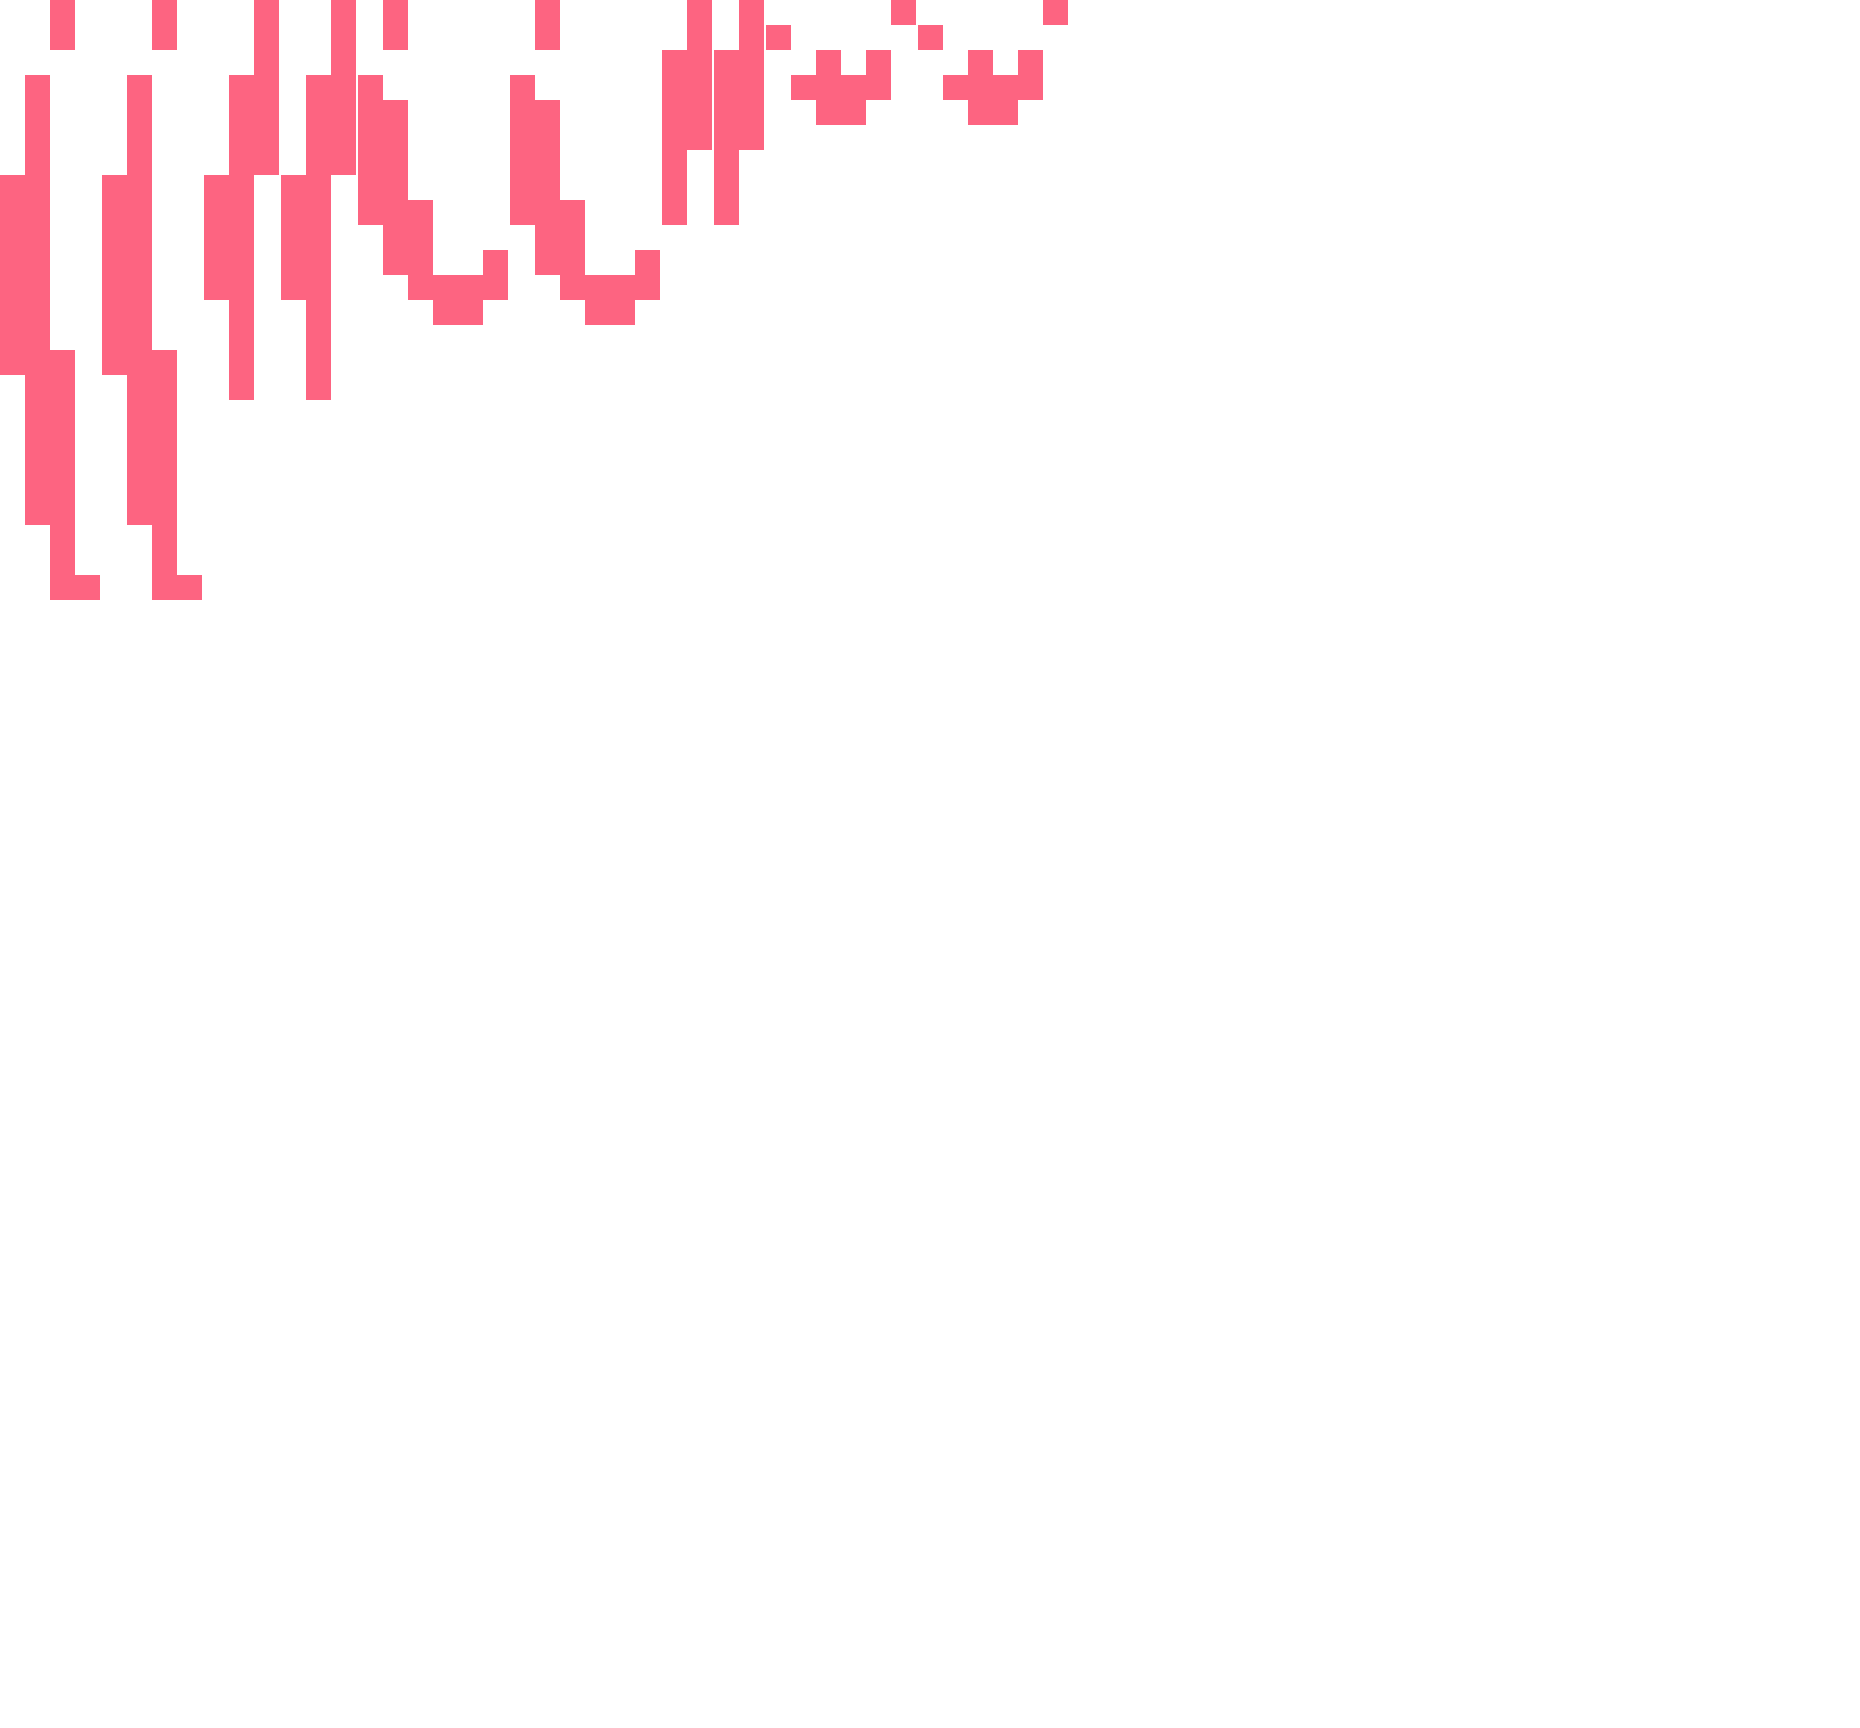
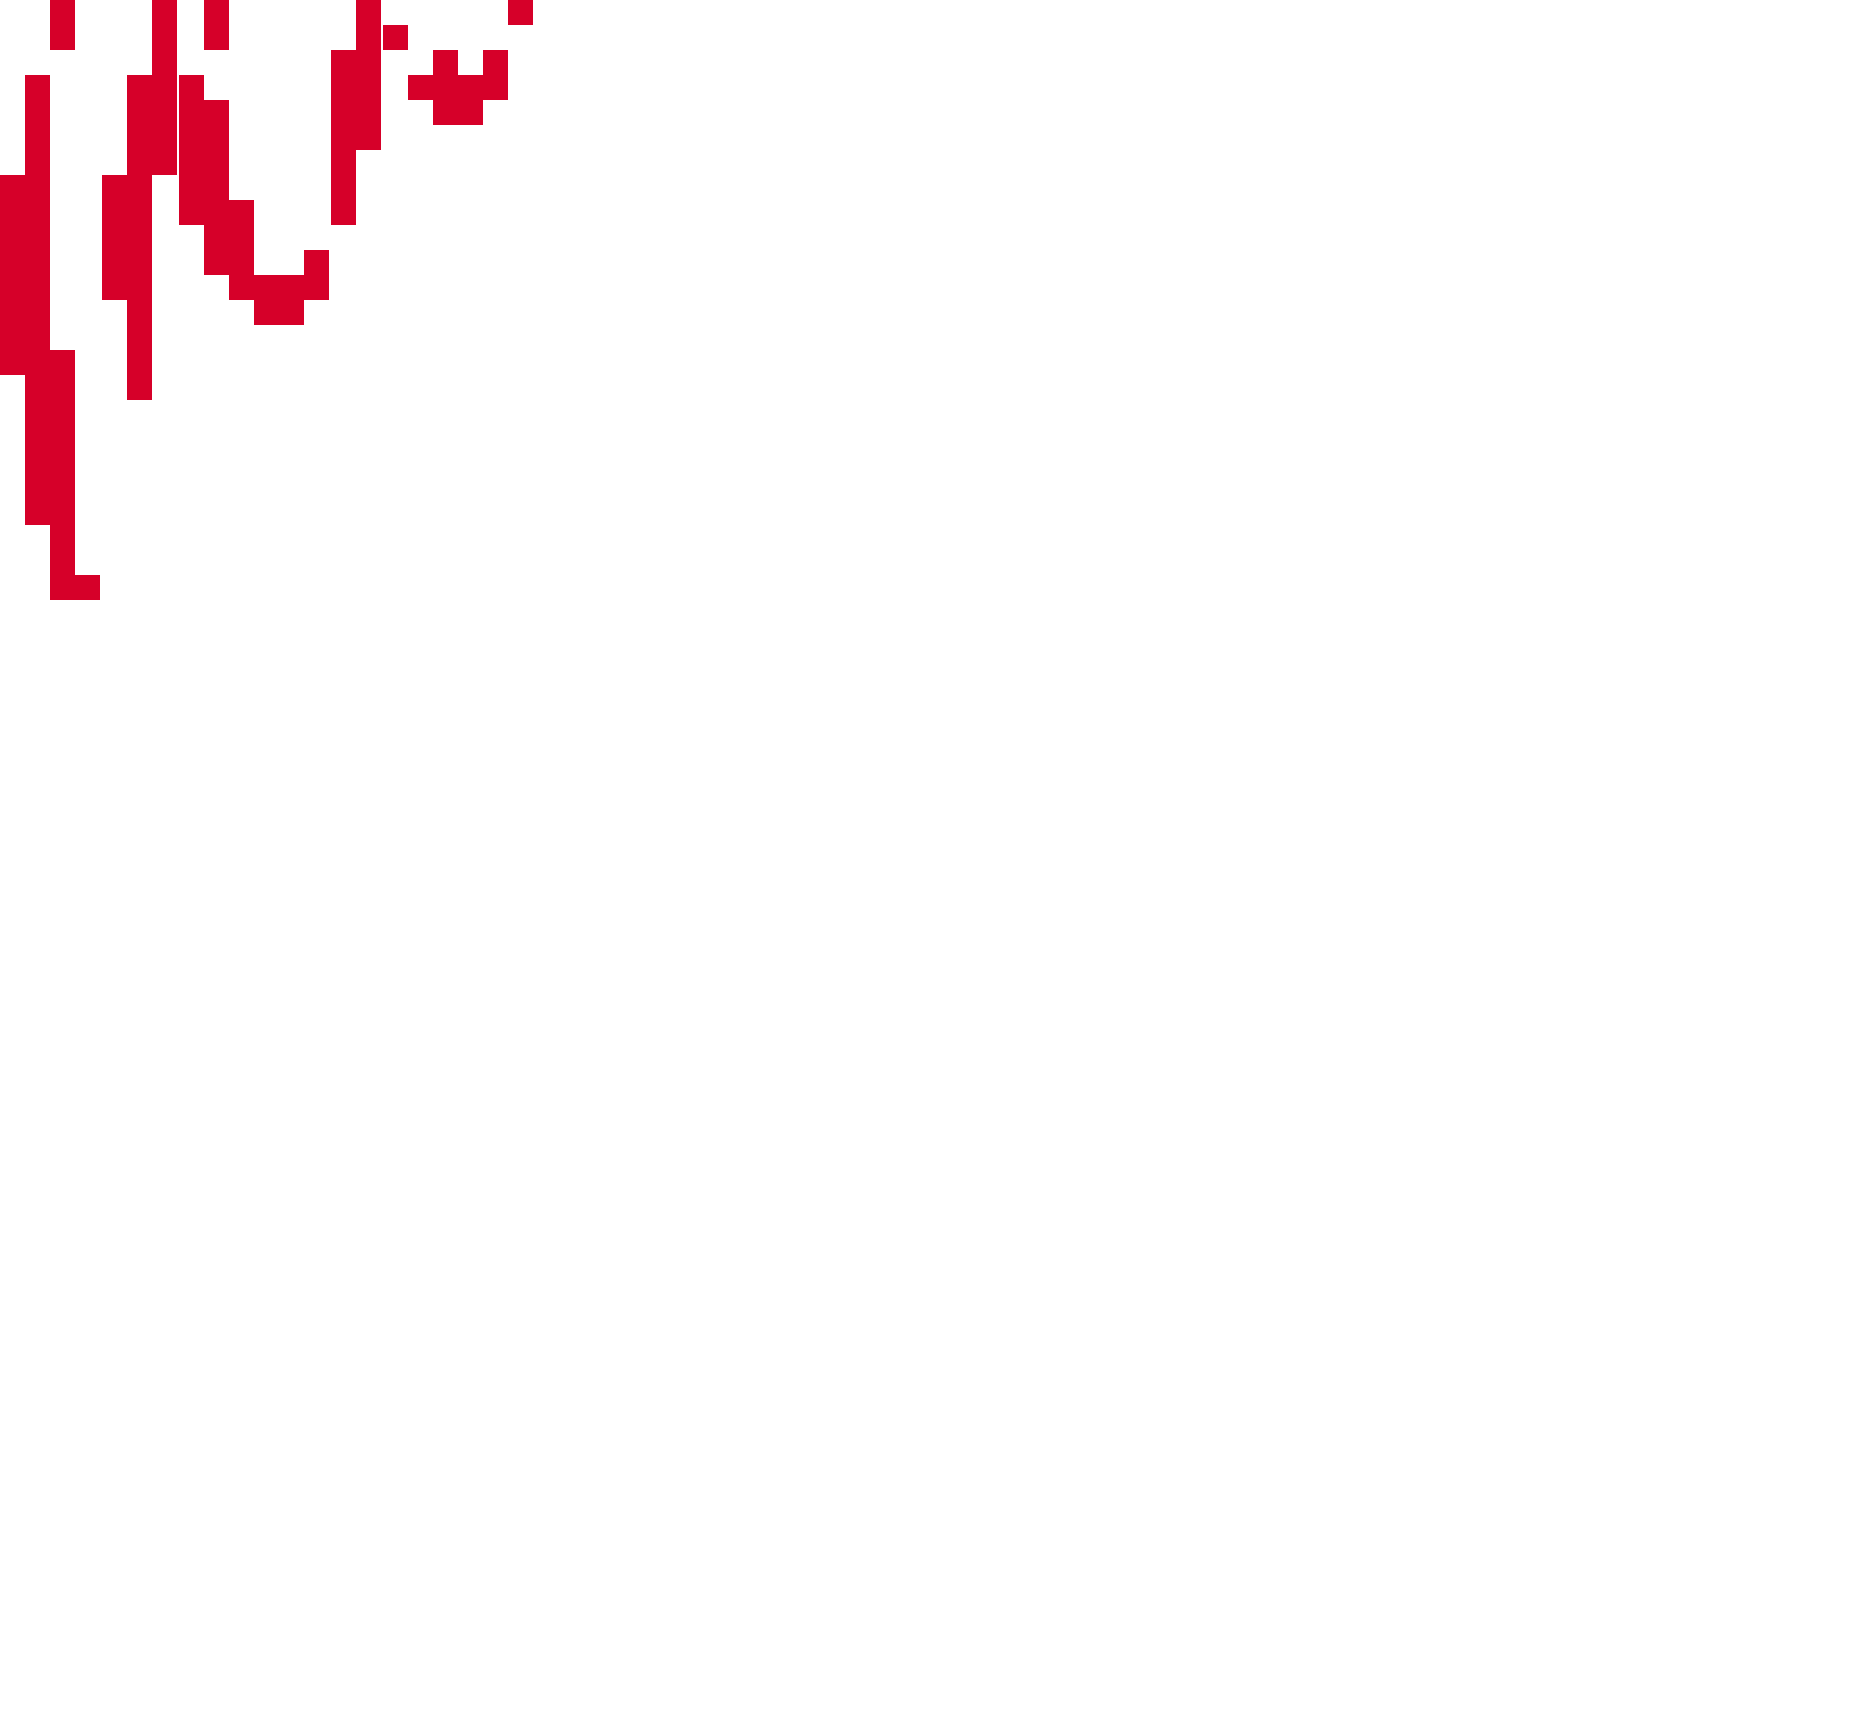
Deepen the slash colour and play the animation through once
Colour was #fd6481, sampled from the screenshot's strokes. Same hue, but at
69% lightness it reads pink rather than red. Now #d60029: hue held, lightness
down to 42% at full saturation, which lifts the chroma from 0.60 to 0.84. The
test pins the intent -- red dominant, lightness under half, chroma above 0.75 --
rather than the literal bytes.

Added --once, which emits one sheet frame per slash frame instead of spreading
five over the sheet's ten. Each frame was being held for two beats; now the
animation plays straight through in half the time. Frames are renumbered
_001.._005 from the original prefix and padding, so the counter has no gaps.

This does change the frame count on the sheet, which is the one thing about the
repack that is not transparent to the engine: anything expecting ten named
frames will now find five.

Claude-Session: https://claude.ai/code/session_01F6KpCQchDjXcyJobUKVZFa

Changed region(s): [[0.0, 0.0, 0.5613, 0.3438], [0.5613, 0.0, 0.5925, 0.0312]]

diff --git a/tools/slash-sheet/build.js b/tools/slash-sheet/build.js
@@ -28,6 +28,9 @@
  *   --repack         rewrite the plist too: lay the frames out fresh, upright
  *                    and trimmed to the art, instead of reusing the old
  *                    rectangles. Bigger pixels, and no rotation to get wrong
+ *   --once           with --repack, emit one sheet frame per slash frame
+ *                    instead of spreading five over the sheet's ten, so the
+ *                    animation plays through once and runs twice as fast
  *   --verify PATH    write a filmstrip of the frames as the engine will
  *                    rebuild them, to check orientation and placement
  *   --preview PATH   also write a contact sheet of the slash frames alone
@@ -45,7 +48,7 @@ function parseArgs(argv) {
   const out = {
     input: null, out: 'out', inPlace: false, order: 'stage',
     fit: 0.9, scale: 0, gap: 0, preview: null, dryRun: false, seeds: null, grid: null,
-    plist: null, verify: null, repack: false, fitGiven: false,
+    plist: null, verify: null, repack: false, fitGiven: false, once: false,
   };
   for (let i = 0; i < argv.length; i++) {
     const arg = argv[i];
@@ -66,6 +69,7 @@ function parseArgs(argv) {
     else if (arg === '--grid') out.grid = value();
     else if (arg === '--plist') out.plist = value();
     else if (arg === '--repack') out.repack = true;
+    else if (arg === '--once') out.once = true;
     else if (arg === '--verify') out.verify = value();
     else if (arg === '--preview') out.preview = value();
     else if (arg === '--dry-run') out.dryRun = true;
@@ -104,6 +108,14 @@ function previewSheet(scale = 2, pad = 2) {
 function median(values) {
   const sorted = [...values].sort((a, b) => a - b);
   return sorted[sorted.length >> 1];
+}
+
+/** Renumber a frame name, keeping its prefix, zero padding and extension. */
+function renumber(name, index) {
+  const parts = name.match(/^(.*?)(\d+)(\D*)$/);
+  if (!parts) throw new Error(`frame name "${name}" has no counter to renumber`);
+  const [, prefix, digits, suffix] = parts;
+  return prefix + String(index + 1).padStart(digits.length, '0') + suffix;
 }
 
 /** The cells a frame's art actually covers. */
@@ -158,9 +170,14 @@ function filmstrip(atlas, frames) {
  * that canvas.
  */
 function repackFromPlist(sheet, opts, inputPath) {
-  const frames = parsePlist(readFileSync(resolve(opts.plist), 'utf8'));
+  const source = parsePlist(readFileSync(resolve(opts.plist), 'utf8'));
   const art = frameMasks();
-  const playing = frameSequence(frames.length);
+  // --once drops the sheet down to one frame per slash frame: the animation
+  // stops holding each one for two beats, so it plays through in half the time.
+  const frames = opts.once
+    ? art.map((_, i) => ({ ...source[0], name: renumber(source[0].name, i) }))
+    : source;
+  const playing = opts.once ? art.map((_, i) => i) : frameSequence(frames.length);
   const { sourceW, sourceH } = frames[0];
 
   // Without --fit, take the largest pixel the untrimmed canvas will hold.
@@ -208,7 +225,9 @@ function repackFromPlist(sheet, opts, inputPath) {
   });
 
   console.log(`${basename(inputPath)}: ${sheet.width}x${sheet.height}`);
-  console.log(`repacking ${frames.length} frames upright (was ${frames.filter((f) => f.rotated).length} rotated)`);
+  console.log(`repacking ${frames.length} frames upright`
+    + `${opts.once ? `, one per slash frame (was ${source.length} on the sheet)` : ''}`
+    + ` (was ${source.filter((f) => f.rotated).length} rotated)`);
   console.log(`untrimmed canvas ${sourceW}x${sourceH}, slash art ${WIDTH}x${HEIGHT} at ${scale}x `
     + `= ${WIDTH * scale}x${HEIGHT * scale} from ${originX},${originY}`);
   console.log('');

diff --git a/test/slashPlist.test.js b/test/slashPlist.test.js
@@ -2,6 +2,7 @@ import test from 'node:test';
 import assert from 'node:assert/strict';
 import { readFileSync } from 'node:fs';
 import { atlasRegion, parsePlist, planLayout, shelfPack, sourceRect, writePlist } from '../tools/slash-sheet/plist.js';
+import { FRAME_COUNT } from '../tools/slash-sheet/slash.js';
 import { blankCanvas, blit, crop, rotateClockwise, rotateCounterClockwise } from '../tools/slash-sheet/render.js';
 
 /** A frame dict in the format TexturePacker writes. */
@@ -142,11 +143,11 @@ test('the layout planner never lets a frame spill outside its own crop', () => {
   });
 });
 
-test('the shipped sheet rebuilds into ten upright slash frames', () => {
-  // Guards the real deliverable: read the plist we ship, rebuild each frame the
-  // way the engine will, and check it is the slash the right way up.
+test('the shipped sheet is one frame per slash frame, upright, none repeated', () => {
+  // Guards the real deliverable: the plist we ship should play the animation
+  // straight through once, with nothing rotated and nothing held twice.
   const frames = parsePlist(readFileSync(new URL('../PlayerExplosion_03-uhd.plist', import.meta.url), 'utf8'));
-  assert.equal(frames.length, 10);
+  assert.equal(frames.length, FRAME_COUNT);
   assert.ok(frames.every((f) => !f.rotated), 'the repack should leave nothing rotated');
   assert.ok(frames.every((f) => f.sourceW === 648 && f.sourceH === 632), 'untrimmed canvas must not change');
 
@@ -156,10 +157,11 @@ test('the shipped sheet rebuilds into ten upright slash frames', () => {
     assert.ok(rect.right <= frame.sourceW && rect.bottom <= frame.sourceH, `${frame.name} runs past the canvas`);
   }
 
-  // Frames sharing a slash frame must land identically on the canvas: that is
-  // what stops the animation jumping.
-  for (let i = 0; i < frames.length; i += 2) {
-    assert.deepEqual(sourceRect(frames[i]), sourceRect(frames[i + 1]),
-      `${frames[i].name} and ${frames[i + 1].name} should sit in the same place`);
-  }
+  // No two frames may be the same drawing: that is what "plays once" means.
+  const seen = new Set(frames.map((f) => `${f.w}x${f.h}@${JSON.stringify(sourceRect(f))}`));
+  assert.equal(seen.size, frames.length, 'two frames are the same size in the same place');
+
+  // Counter runs 001..00N with no gaps, so the engine finds every frame.
+  assert.deepEqual(frames.map((f) => f.name),
+    frames.map((_, i) => `playerExplosion_03_00${i + 1}.png`));
 });

diff --git a/test/slashSheet.test.js b/test/slashSheet.test.js
@@ -2,7 +2,7 @@ import test from 'node:test';
 import assert from 'node:assert/strict';
 import { decodePng, encodePng } from '../tools/slash-sheet/png.js';
 import { detectFrames, gridSeeds, orderFrames, partitionFrames } from '../tools/slash-sheet/frames.js';
-import { FRAME_COUNT, HEIGHT, WIDTH, frameMask, frameMasks, frameSequence } from '../tools/slash-sheet/slash.js';
+import { COLOR, FRAME_COUNT, HEIGHT, WIDTH, frameMask, frameMasks, frameSequence } from '../tools/slash-sheet/slash.js';
 import { blankCanvas, snapCorner, stampFrame } from '../tools/slash-sheet/render.js';
 
 /** A blank RGBA image. */
@@ -78,6 +78,20 @@ test('the art has exactly the lone pixels it means to have', () => {
     return count;
   });
   assert.deepEqual(lone, [0, 0, 0, 0, 2]);
+});
+
+test('the stroke colour is a dark, saturated red', () => {
+  const { r, g, b } = COLOR;
+  const max = Math.max(r, g, b) / 255;
+  const min = Math.min(r, g, b) / 255;
+  const lightness = (max + min) / 2;
+  const chroma = max - min;
+  assert.equal(max, r / 255, 'red should be the dominant channel');
+  assert.ok(lightness < 0.5, `lightness ${lightness.toFixed(2)} is too pale for a dark red`);
+  assert.ok(chroma > 0.75, `chroma ${chroma.toFixed(2)} is not saturated enough`);
+  // Hue stays where the screenshot's strokes sat, just deeper.
+  const hue = ((60 * (((g - b) / 255 / chroma) % 6)) + 360) % 360;
+  assert.ok(hue > 330 || hue < 15, `hue ${hue.toFixed(0)} has drifted out of red`);
 });
 
 test('the grid is coarse enough that a sheet frame gets big blocks', () => {

diff --git a/tools/slash-sheet/slash.js b/tools/slash-sheet/slash.js
@@ -31,8 +31,15 @@
 export const WIDTH = 6;
 export const HEIGHT = 25;
 
-/** The stroke's colour, sampled from the middle of the strokes themselves. */
-export const COLOR = { r: 0xfd, g: 0x64, b: 0x81, a: 0xff };
+/**
+ * The stroke's colour: a dark, fully saturated red.
+ *
+ * The screenshot's own strokes sample at #fd6481, which is the same hue but
+ * pale -- 69% lightness makes it read pink rather than red. This keeps that
+ * hue and takes the lightness down to 42% at full saturation, which lifts the
+ * chroma from 0.60 to 0.84.
+ */
+export const COLOR = { r: 0xd6, g: 0x00, b: 0x29, a: 0xff };
 
 /** The five frames of the animation, first to last. */
 const FRAMES = [

diff --git a/tools/slash-sheet/README.md b/tools/slash-sheet/README.md
@@ -37,7 +37,10 @@ silently drop or duplicate part of a frame; pins how many pixels stand alone
 elsewhere shows up as a change); and checks the grid stays coarse enough for
 blocks this size.
 
-Colour is `#fd6481`, sampled from the middle of the strokes.
+Colour is `#d60029`. The screenshot's own strokes sample at `#fd6481`, the same
+hue but pale — at 69% lightness it reads pink rather than red — so the shipped
+colour keeps that hue and drops the lightness to 42% at full saturation, which
+takes the chroma from 0.60 to 0.84.
 
 To look at the frames on their own:
 
@@ -78,9 +81,16 @@ left to get the wrong way round; and the art is no longer capped by the
 smallest of the old crops, which on this sheet is a 254x250 rectangle that
 would have held the art to 16px pixels. Repacked, they are 25px.
 
+`--once` goes with it. The slash has five frames; a sheet built for a ten-frame
+explosion holds each of them for two, so add `--once` to emit five frames
+instead and let the animation play straight through at twice the speed. Frames
+are renumbered `_001`..`_005`, keeping the original prefix and zero padding.
+
 What `--repack` does not change is what the engine keys off: the frame names,
 their order, the untrimmed canvas size and the sheet's dimensions. Each frame's
-`spriteOffset` is recomputed so it still lands where it should.
+`spriteOffset` is recomputed so it still lands where it should. Note that
+`--once` does change the frame *count*, so anything that expects ten named
+frames needs to cope with five.
 
 Without `--repack` the existing rectangles and rotation flags are honoured
 exactly, which is the safer choice if something else depends on the current
@@ -142,6 +152,7 @@ that table before trusting the output; `--dry-run` prints it without writing.
 | `--gap FRACTION` | Force the blob bridging distance (default: worked out from the sheet) |
 | `--plist FILE` | Take frame order, rectangles and rotation from the sheet's plist |
 | `--repack` | Rewrite the plist too: frames laid out fresh, upright, trimmed to the art |
+| `--once` | With `--repack`, one sheet frame per slash frame, so it plays through once |
 | `--verify PATH` | Write a filmstrip of the frames as the engine will rebuild them |
 | `--seeds LIST` | Split by nearest frame centre: `"x,y x,y ..."` or a file of the same |
 | `--grid CxR` | Split by a plain C x R grid of frame centres |
